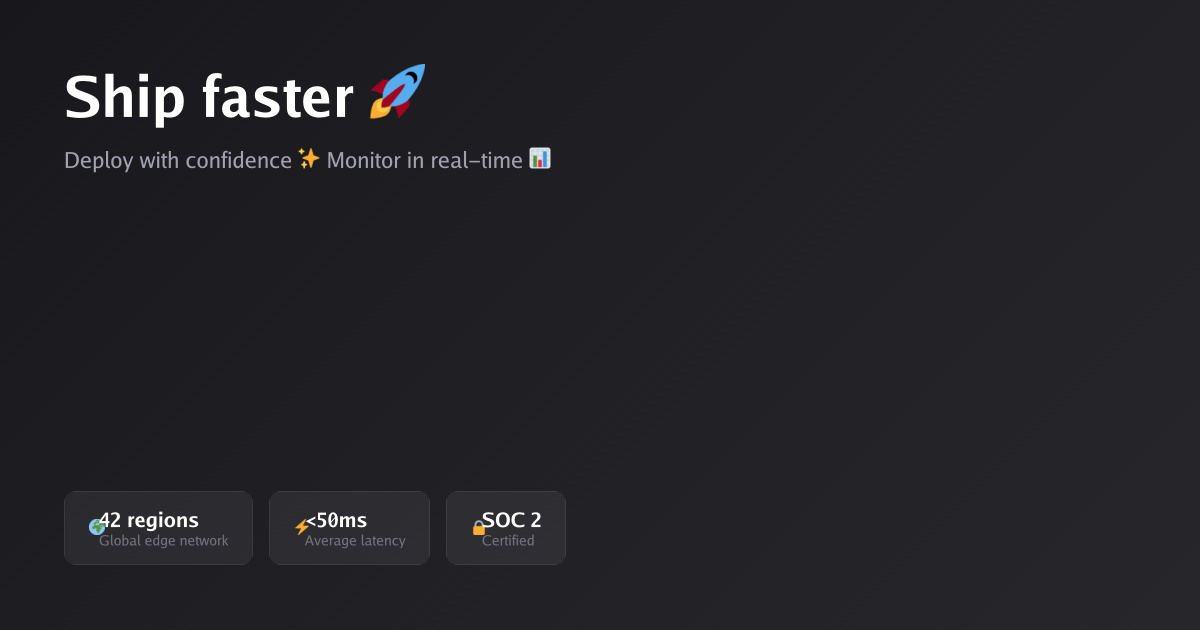
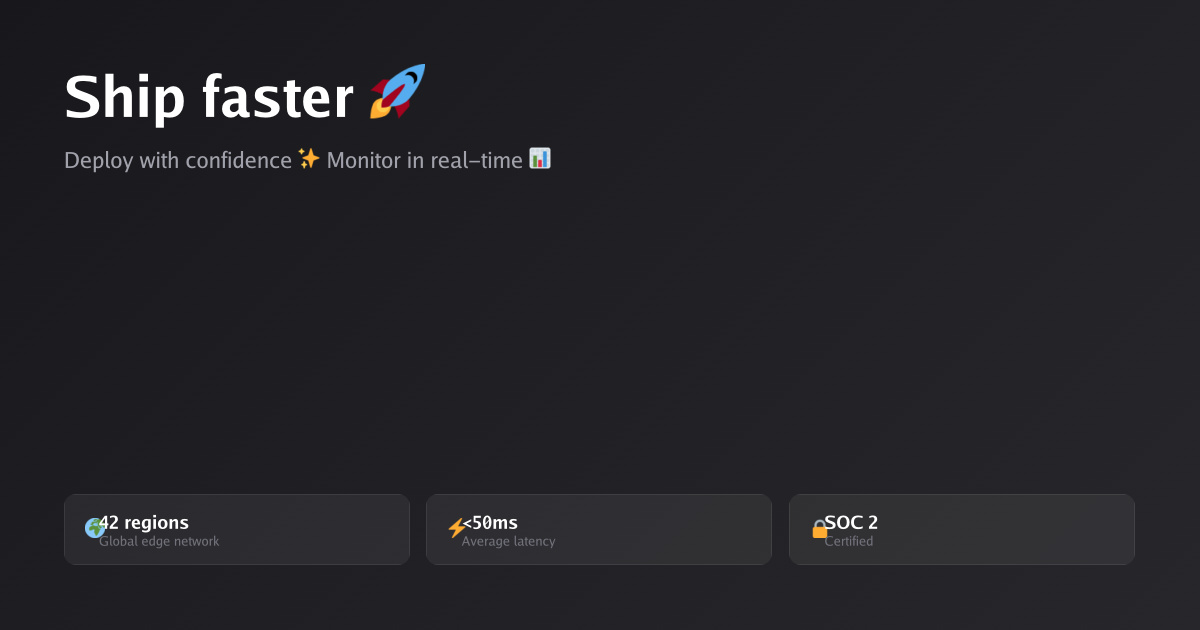
fix: emoji card layout in ship faster template
Cards use flex:1 to fill row width evenly, emoji at 20px with
14px gap to prevent text overlap.

diff --git a/site/src/data/templates.ts b/site/src/data/templates.ts
@@ -149,25 +149,25 @@ export const templates = {
     <div style="color:#a1a1aa;font-size:22px;margin-top:8px;line-height:1.5">Deploy with confidence ✨ Monitor in real-time 📊</div>
   </div>
   <div style="display:flex;gap:16px">
-    <div style="display:flex;align-items:center;gap:10px;background-color:rgba(255,255,255,0.06);padding:16px 24px;border-radius:12px;border:1px solid rgba(255,255,255,0.08)">
-      <div style="font-size:16px">🌍</div>
+    <div style="display:flex;flex:1;align-items:center;gap:14px;background-color:rgba(255,255,255,0.06);padding:16px 20px;border-radius:12px;border:1px solid rgba(255,255,255,0.08)">
+      <div style="font-size:20px">🌍</div>
       <div style="display:flex;flex-direction:column">
-        <div style="color:white;font-size:20px;font-weight:700">42 regions</div>
-        <div style="color:#71717a;font-size:14px">Global edge network</div>
+        <div style="color:white;font-size:18px;font-weight:700">42 regions</div>
+        <div style="color:#71717a;font-size:13px">Global edge network</div>
       </div>
     </div>
-    <div style="display:flex;align-items:center;gap:10px;background-color:rgba(255,255,255,0.06);padding:16px 24px;border-radius:12px;border:1px solid rgba(255,255,255,0.08)">
-      <div style="font-size:16px">⚡</div>
+    <div style="display:flex;flex:1;align-items:center;gap:14px;background-color:rgba(255,255,255,0.06);padding:16px 20px;border-radius:12px;border:1px solid rgba(255,255,255,0.08)">
+      <div style="font-size:20px">⚡</div>
       <div style="display:flex;flex-direction:column">
-        <div style="color:white;font-size:20px;font-weight:700">&lt;50ms</div>
-        <div style="color:#71717a;font-size:14px">Average latency</div>
+        <div style="color:white;font-size:18px;font-weight:700">&lt;50ms</div>
+        <div style="color:#71717a;font-size:13px">Average latency</div>
       </div>
     </div>
-    <div style="display:flex;align-items:center;gap:10px;background-color:rgba(255,255,255,0.06);padding:16px 24px;border-radius:12px;border:1px solid rgba(255,255,255,0.08)">
-      <div style="font-size:16px">🔒</div>
+    <div style="display:flex;flex:1;align-items:center;gap:14px;background-color:rgba(255,255,255,0.06);padding:16px 20px;border-radius:12px;border:1px solid rgba(255,255,255,0.08)">
+      <div style="font-size:20px">🔒</div>
       <div style="display:flex;flex-direction:column">
-        <div style="color:white;font-size:20px;font-weight:700">SOC 2</div>
-        <div style="color:#71717a;font-size:14px">Certified</div>
+        <div style="color:white;font-size:18px;font-weight:700">SOC 2</div>
+        <div style="color:#71717a;font-size:13px">Certified</div>
       </div>
     </div>
   </div>
